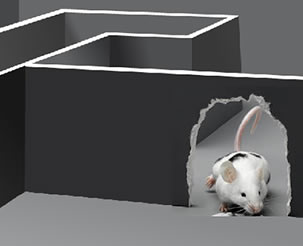
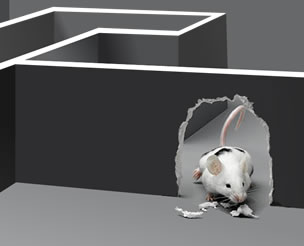
Sistemato visualizzazione hero image su tutti i dispositivi e orientamenti

Changed region(s): [[0.0, 0.3699, 1.0, 0.9106], [0.0, 0.0, 1.0, 0.3415]]

diff --git a/app/assets/styles/modules/_site-hero.css b/app/assets/styles/modules/_site-hero.css
@@ -1,40 +1,41 @@
 .site-hero {
-    &.lazyloaded {
-        background: url('../../assets/images/hero-small.png') top center no-repeat;
-        background-size: cover;
+    margin: 0 auto;
+    width: 100%;
+    position: relative;
+    background: url('../../assets/images/hero-background.jpg') top center no-repeat;
+    background-size: cover;
 
+    &.lazyloaded {
         @mixin atLarge {
             background: url('../../assets/images/hero-large.png') top center no-repeat;
             background-size: cover;
+            height: 586px;
         }
     }
 
-    height: 246px;
-    padding: 2.3rem 0 0;
+    &__image {
+        display: block;
+        width: calc(100% - 18px);
+        margin: 0 auto;
 
-    @mixin atSmallest {
-        height: 278px;
-        padding: 3rem 0 0;
+        @mixin atLarge {
+            display: none;
+        }
     }
 
-    @mixin atSmaller {
-        height: 291px;
-        padding: 3.3rem 0 0;
-    }
+    &__text-content {
+        position: absolute;
+        width: calc(100% - 16px);
+        top: 50%;
+        left: 9px;
+        transform: translateY(-50%);
 
-    @mixin atSmall {
-        height: 331px;
-        padding: 4.3rem 0 0;
-    }
-
-    @mixin atMedium {
-        height: 607px;
-        padding: 10.4rem 0 0;
-    }
-
-    @mixin atLarge {
-        height: 586px;
-        padding: 11.4rem 0 0;
+        @mixin atLarge {
+            position: relative;
+            width: 960px;
+            margin: 0 auto;
+            left: 0;
+        }
     }
 
     &__title {
@@ -47,7 +48,7 @@
         line-height: 1.25;
 
         @mixin atMedium {
-            font-size: 2.5rem;
+            font-size: 2rem;
             margin-bottom: .67rem;
         }
 
@@ -57,22 +58,25 @@
             text-align: right;
             font-size: 1.625rem;
             line-height: 0.77;
-            padding: .5rem 0 0 1.75rem;
+            padding: .5rem 0 0 1rem;
 
             @mixin atMedium {
+                font-size: 3rem;
+            }
+
+            @mixin atLarge {
                 font-size: 3.5rem;
                 width: 34.6%;
                 padding: 1rem .5rem 0 0;
-            }
+}
         }
 
         &__normal {
             display: block;
-            margin-left: 1.75rem;
+            margin-left: 1rem;
 
-            @mixin atMedium {
+            @mixin atLarge {
                 display: inline;
-                margin-left: 0;
             }
         }
     }
@@ -85,10 +89,15 @@
         line-height: 1.3;
         max-width: 10.5rem;
         margin-bottom: 0;
-        margin-left: 1.75rem;
+        margin-left: 1rem;
         margin-top: .8rem;
 
         @mixin atMedium {
+            font-size: 1.5rem;
+            max-width: 18rem;
+            margin-top: 1.8rem;
+        }
+        @mixin atLarge {
             font-size: 1.625rem;
             margin-left: 19.5%;
             max-width: 19rem;

diff --git a/app/index.html b/app/index.html
@@ -34,13 +34,12 @@
   </header>
   <main>
     <section id="design-strumenti-digitali" class="site-hero lazyload">
-      <div class="wrapper">
-        <div class="site-hero__text-content">
-          <h1 class="site-hero__title"><span class="site-hero__title__highlight">Design</span><span class="site-hero__title__normal">di
-              strumenti digitali per il web</span></h1>
-          <p class="site-hero__description">Siamo un gruppo di professionisti che da più di vent’anni si occupa del
-            Design e del Re-design di strumenti digitali.</p>
-        </div>
+      <img src="assets/images/hero-small.jpg" alt="Topolino che si apre una nuova strada in un labirinto" class="site-hero__image">
+      <div class="site-hero__text-content">
+        <h1 class="site-hero__title"><span class="site-hero__title__highlight">Design</span><span class="site-hero__title__normal">di
+            strumenti digitali per il web</span></h1>
+        <p class="site-hero__description">Siamo un gruppo di professionisti che da più di vent’anni si occupa del
+          Design e del Re-design di strumenti digitali.</p>
       </div>
     </section>
     <section id="cosa-facciamo" class="page-section page-section--no-t-border">
@@ -317,7 +316,8 @@
       </div>
     </section>
   </main>
-  <footer class="site-footer">Sinfiniti - <a href="mailto:info@sinfiniti.com">info@sinfiniti.com</a> - p.iva 08404600150</footer>
+  <footer class="site-footer">Sinfiniti - <a href="mailto:info@sinfiniti.com">info@sinfiniti.com</a> - p.iva
+    08404600150</footer>
   <!-- build:js assets/scripts/app.js -->
   <script src="temp/scripts/app.js"></script>
   <!-- endbuild -->

diff --git a/app/assets/styles/base/_mixins.css b/app/assets/styles/base/_mixins.css
@@ -1,21 +1,3 @@
-@define-mixin atSmallest {
-    @media (min-width: 22.5em) {/*360px*/
-        @mixin-content;
-    }
-}
-
-@define-mixin atSmaller {
-    @media (min-width: 23.4375em) {/*375px*/
-        @mixin-content;
-    }
-}
-
-@define-mixin atSmall {
-    @media (min-width: 26.5625em) {/*425px*/
-        @mixin-content;
-    }
-}
-
 @define-mixin atMedium {
     @media (min-width: 40em) {/*640px*/
         @mixin-content;

diff --git a/app/assets/styles/styles.css b/app/assets/styles/styles.css
@@ -4,7 +4,6 @@
 @import "base/_global";
 @import "modules/_sprite";
 @import "modules/_site-header";
-@import "modules/_wrapper";
 @import "modules/_site-hero";
 @import "modules/_page-section";
 @import "modules/_row";
